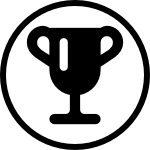
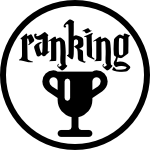
タイトルの装飾

Changed region(s): [[0.1333, 0.1067, 0.88, 0.9333]]

diff --git a/Classes/TitleScene.cpp b/Classes/TitleScene.cpp
@@ -38,8 +38,16 @@ bool TitleScene::init(){
     titleBg -> setPosition(Vec2(selfFrame.width/2,selfFrame.height/2));
     this -> addChild(titleBg);
     
+    auto titleSignboard = Sprite::create("titleObject.png");
+    titleSignboard -> setPosition(Vec2(selfFrame.width/2,selfFrame.height*3/4));
+    this -> addChild(titleSignboard);
     
     setStartBt();
+    setTutorialBt();
+    setRankingBt();
+    setCharactorBt();
+    setTwitterBt();
+    setOtherBt();
     
     
     
@@ -165,38 +173,164 @@ void TitleScene::onTouchEnded(Touch *touch, Event *unused_event){
     
 }
 
-
+//MARK::ストーリーボタン
 void TitleScene::setStartBt(){
 
     
-    //スタートボタン作成
-    auto startBt = Sprite::create("startBt.png");
+    //ストーリーボタン作成
+    auto startBt = Sprite::create("storyBt.png");
     
-    auto startBtTaped = Label::createWithSystemFont("story", "MagicSchoolOne", 150);
-    startBtTaped -> setColor(Color3B::BLACK);
+    auto startBtTaped = Sprite::create("storyBt.png");
     startBtTaped -> setOpacity(150);
     
     //メニューアイテムの作成
-    auto pBtnItem = MenuItemSprite::create(startBt, startBtTaped, CC_CALLBACK_1(TitleScene::startCallback, this));
+    auto pBtnItem = MenuItemSprite::create(startBt, startBtTaped, [](Ref *ref){
+        
+        Director::getInstance()->replaceScene(TransitionPageTurn::create(1, StorySelect::createScene(), 0));
+        
+    });
     
     //メニューの作成　pMenuの中にpBtnItemを入れる
     auto startMenu = Menu::create(pBtnItem, NULL);
     
     //pMenuを画面中央に配置
-    startMenu->setPosition(Vec2(selfFrame.width/2, selfFrame.height/2));
+    startMenu->setPosition(Vec2(selfFrame.width/2, selfFrame.height*0.48));
     this->addChild(startMenu);
-
-
-
-}
-
-void TitleScene::startCallback(cocos2d::Ref *pSender){
     
-    //Director::getInstance()->replaceScene(GameScene::createScene());
-    Director::getInstance()->replaceScene(TransitionPageTurn::create(1, StorySelect::createScene(), 0));
-
 }
 
+//MARK::チュートリアルボタン
+void TitleScene::setTutorialBt(){
+    
+    //チュートリアル作成
+    auto tutorialBt = Sprite::create("tutorialBt.png");
+    
+    auto tutorialBtTaped = Sprite::create("tutorialBt.png");
+    tutorialBtTaped -> setOpacity(150);
+    
+    //メニューアイテムの作成
+    auto pBtnItem = MenuItemSprite::create(tutorialBt, tutorialBtTaped, [](Ref *ref){
+        
+        //遊び方を呼び出すメソッド
+        CCLOG("激ムズの糸と同じ操作方法だよ〜！");
+        
+    });
+    
+    //メニューの作成　pMenuの中にpBtnItemを入れる
+    auto tutorialMenu = Menu::create(pBtnItem, NULL);
+    
+    //pMenuを画面中央に配置
+    tutorialMenu->setPosition(Vec2(selfFrame.width*3/4, selfFrame.height*0.36));
+    this->addChild(tutorialMenu);
+    
+}
+
+//MARK::ランキングボタン
+void TitleScene::setRankingBt(){
+    
+    
+    // ランキングボタン作成
+    auto rankingBt = Sprite::create("rankingBt.png");
+    
+    auto rankingBtTaped = Sprite::create("rankingBt.png");
+    rankingBtTaped -> setOpacity(150);
+    
+    //メニューアイテムの作成
+    auto pBtnItem = MenuItemSprite::create(rankingBt, rankingBtTaped, [](Ref *ref){
+        
+        //ランキング呼び出すメソッド
+        CCLOG("アチーブメントになるのかな？");
+        
+    });
+    
+    //メニューの作成
+    auto rankingMenu = Menu::create(pBtnItem, NULL);
+    
+    //Menuを画面中央に配置
+    rankingMenu->setPosition(Vec2(selfFrame.width/4, selfFrame.height*0.36));
+    this->addChild(rankingMenu);
+    
+}
+
+//MARK::その他のゲームボタン
+void TitleScene::setOtherBt(){
+    
+    //その他のゲームボタン作成
+    auto otherBt = Sprite::create("otherBt.png");
+    
+    auto otherBtTaped = Sprite::create("otherBt.png");
+    otherBtTaped -> setOpacity(150);
+    
+    //メニューアイテムの作成
+    auto pBtnItem = MenuItemSprite::create(otherBt, otherBtTaped, [](Ref *ref){
+        
+        //appCCloudのメソッド
+        CCLOG("誰かインストールしてちょ");
+        
+    });
+    
+    //メニューの作成
+    auto otherMenu = Menu::create(pBtnItem, NULL);
+    
+    //Menuを画面中央に配置
+    otherMenu->setPosition(Vec2(selfFrame.width/3, selfFrame.height*0.196));
+    this->addChild(otherMenu);
+    
+}
+
+//MARK::キャラクター購入ボタン
+void TitleScene::setCharactorBt(){
+    
+    
+    //キャラクター購入ボタン作成
+    auto charactorBt = Sprite::create("charactorBt.png");
+    
+    auto charactorBtTaped = Sprite::create("charactorBt.png");
+    charactorBtTaped -> setOpacity(150);
+    
+    //メニューアイテムの作成
+    auto pBtnItem = MenuItemSprite::create(charactorBt, charactorBtTaped, [](Ref *ref){
+        
+        //キャラクター購入画面を呼び出すメソッド
+        CCLOG("キャラクター購入でhappy!!");
+        
+    });
+    
+    //メニューの作成
+    auto charactorMenu = Menu::create(pBtnItem, NULL);
+    
+    //Menuを画面中央に配置
+    charactorMenu->setPosition(Vec2(selfFrame.width/2, selfFrame.height*0.32));
+    this->addChild(charactorMenu);
+    
+}
+
+//MARK::ツイッターボタン
+void TitleScene::setTwitterBt(){
+    
+    
+    //ツイッターボタン作成
+    auto twitterBt = Sprite::create("twitterBt.png");
+    
+    auto twitterBtTaped = Sprite::create("twitterBt.png");
+    twitterBtTaped -> setOpacity(150);
+    
+    //メニューアイテムの作成
+    auto pBtnItem = MenuItemSprite::create(twitterBt, twitterBtTaped, [](Ref *ref){
+        
+        //ツイッター呼び出し
+        CCLOG("ツイートしちゃうぞ♪");
+        
+    });
+    
+    //メニューの作成
+    auto twitterMenu = Menu::create(pBtnItem, NULL);
+    
+    //Menuを画面中央に配置
+    twitterMenu->setPosition(Vec2(selfFrame.width*2/3, selfFrame.height*0.196));
+    this->addChild(twitterMenu);
+    
+}
 
 
 

diff --git a/Classes/BackGround.cpp b/Classes/BackGround.cpp
@@ -174,23 +174,28 @@ BackGround::BackGround(){
     }
     
     //カウントのラベル
-    /*auto countLabel = Label::Label::createWithSystemFont("30","MagicSchoolOne", 50);
+    auto countLabel = Label::Label::createWithSystemFont("30","MagicSchoolOne", 50);
     countLabel->setTextColor(Color4B::BLACK);
     countLabel->setPosition(Vec2(staticBackGround->getContentSize().width - countLabel->getContentSize().width,staticBackGround->getContentSize().height - countLabel->getContentSize().height));
     countLabel->setGlobalZOrder(zOrderOfStaticBackGround);
     countLabel->setName("count");
     staticBackGround->addChild(countLabel);
-*/
-//進捗バー
+
+//MARK::進捗バー
     auto countBar = Sprite::create("gaugeBar.png");
     countBar->setPosition(Vec2(selfFrame.width/2,selfFrame.height/10*9));
     countBar->setName("countBar");
+    countBar->setGlobalZOrder(zOrderOfBackGroundParts);
+    countBar->setOpacity(100);
+    countBar->setAnchorPoint(Vec2(0.5f,0));
     staticBackGround->addChild(countBar);
     
     auto countKiki = Sprite::create("gaugeOfKiki.png");
     //countKiki->setScale(0.5f);
     countKiki->setPosition(0,countBar->getContentSize().height/2);
     countKiki->setName("countKiki");
+    countKiki->setGlobalZOrder(zOrderOfBackGroundParts);
+    countKiki->setOpacity(150);
     countBar->addChild(countKiki);
     
 }

diff --git a/Classes/StorySelect.cpp b/Classes/StorySelect.cpp
@@ -41,14 +41,14 @@ bool StorySelect::init(){
     titleBk -> setPosition(Vec2(selfFrame.width/2,selfFrame.height/2));
     this -> addChild(titleBk);
     
-    auto ssLabel = Label::createWithSystemFont("story select", "MagicSchoolOne", 150);
+    auto ssLabel = Label::createWithSystemFont("select story", "MagicSchoolOne", 150);
     ssLabel ->setPosition(Vec2(selfFrame.width/2,selfFrame.height-ssLabel->getContentSize().height*2/5));
     ssLabel -> setColor(Color3B::BLACK);
     ssLabel -> setOpacity(200);
     this -> addChild(ssLabel);
     
     auto upperOrnament = Sprite::create("ssUpperOrnament.png");
-    upperOrnament -> setPosition(Vec2(selfFrame.width/2,selfFrame.height*0.82));
+    upperOrnament -> setPosition(Vec2(selfFrame.width/2,selfFrame.height*0.84));
     upperOrnament -> setOpacity(200);
     this -> addChild(upperOrnament);
     

diff --git a/Classes/TitleScene.h b/Classes/TitleScene.h
@@ -12,6 +12,11 @@ protected:
     
     //スタートボタンの設定
     void setStartBt();
+    void setTutorialBt();
+    void setRankingBt();
+    void setCharactorBt();
+    void setOtherBt();
+    void setTwitterBt();
     
     //コールバック処理
     void startCallback(cocos2d::Ref *pSender);
@@ -26,7 +31,7 @@ public:
     virtual bool init();  
     
     // a selector callback
-    void menuCloseCallback(cocos2d::Ref* pSender);
+    //void menuCloseCallback(cocos2d::Ref* pSender);
     
     // implement the "static create()" method manually
     CREATE_FUNC(TitleScene);
